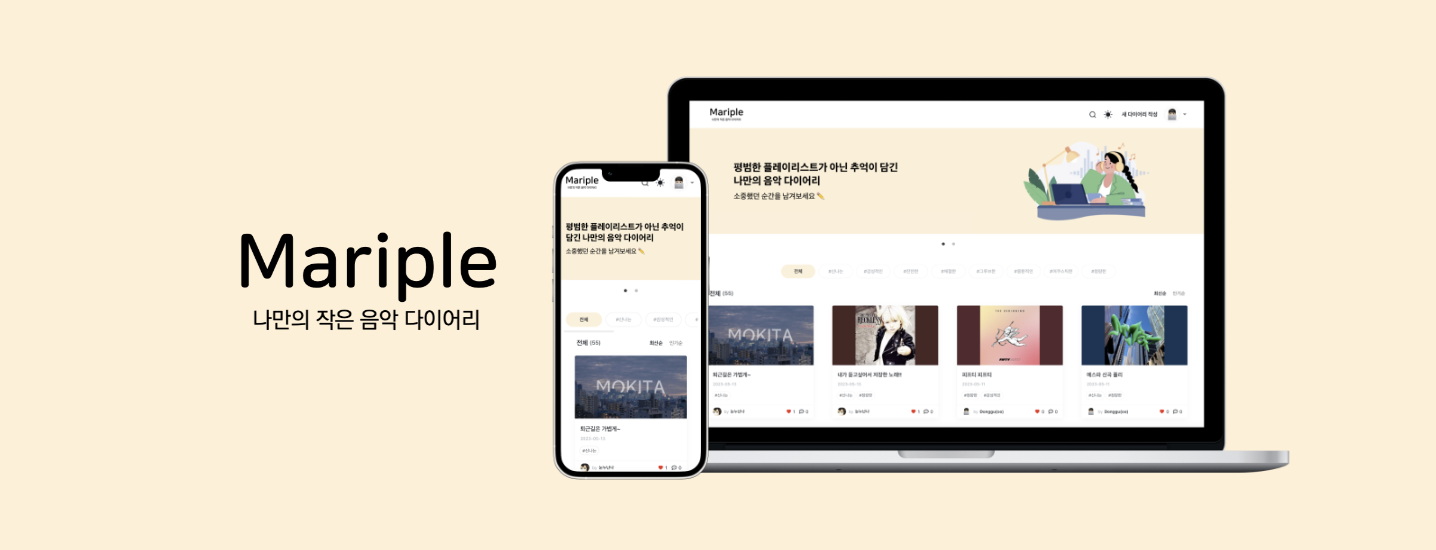
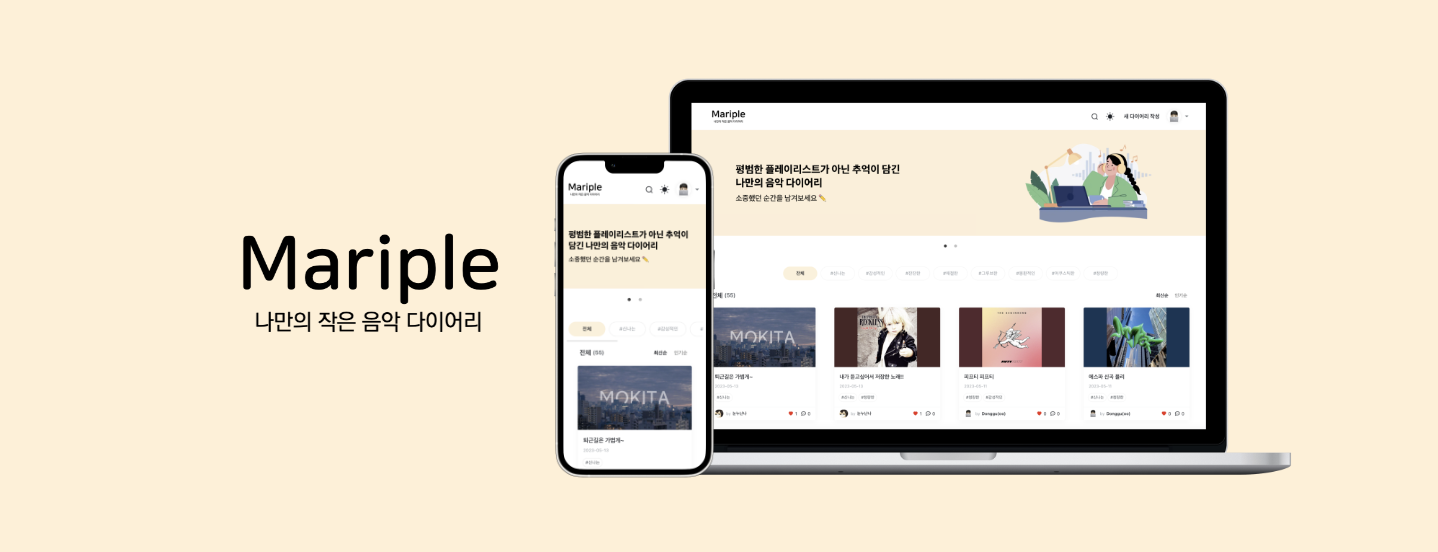
Design : Project 컴포넌트 -> 스택 태그 컬러 변경

Changed region(s): [[0.1532, 0.1236, 0.8579, 0.8964], [0.1838, 0.5564, 0.337, 0.6182], [0.7047, 0.2782, 0.7967, 0.4018]]

diff --git a/src/components/Project.tsx b/src/components/Project.tsx
@@ -15,7 +15,6 @@ import { RiGithubFill } from "react-icons/ri";
 
 const ProjectContainer = styled.div`
   padding: 3.5rem 3rem 3.5rem 3rem;
-  /* padding: 3.5rem 48px 3.5rem 48px; */
   border-radius: 1.3rem;
   border: none;
   background-color: white;
@@ -73,16 +72,20 @@ const SlideArea = styled.div`
   /* border: 1px solid blue; */
   > img {
     margin: auto;
+    margin-top: 0.2rem;
     width: 51rem;
     height: 20rem;
     border-radius: 1.3rem;
     object-fit: cover;
-    /* height: 320px; */
+    transition: 0.2s ease-in-out;
+
+    &:hover {
+      transform: scale(1.01);
+    }
   }
 `;
 
 const SlideTextArea = styled.div`
-  /* border: 1px solid blue; */
   padding: 0 0.5rem 0 0.5rem;
   margin-top: 0.7rem;
   height: 15rem;
@@ -93,7 +96,6 @@ const SlideTitle = styled.div`
   align-items: center;
   font-size: 2rem;
   font-weight: 600;
-  /* border: 1px solid red; */
 
   > a {
     display: flex;
@@ -101,7 +103,6 @@ const SlideTitle = styled.div`
     color: #454545;
 
     > .homepageIcon {
-      /* border: 1px solid red; */
       margin-left: 1rem;
       margin-top: 0.25rem;
       cursor: pointer;
@@ -150,10 +151,59 @@ const SlideTag = styled.ul`
 
   > li {
     font-size: 0.8rem;
-    padding: 0.2rem 0.45rem 0.3rem 0.45rem;
+    padding: 0.2rem 0.45rem 0.2rem 0.45rem;
     color: ${(props) => props.theme.color.mainColor};
     border-radius: 5rem;
     border: 1px solid ${(props) => props.theme.color.mainColor};
+    font-weight: 500;
+
+    &.javaScript {
+      color: white;
+      background-color: #f7df1e;
+      border: 1px solid #f7df1e;
+    }
+
+    &.typeScript {
+      color: white;
+      background-color: #3178c6;
+      border: 1px solid #3178c6;
+    }
+
+    &.react {
+      color: white;
+      background-color: #61dafb;
+      border: 1px solid #61dafb;
+    }
+
+    &.recoil {
+      color: white;
+      background-color: black;
+      border: 1px solid black;
+    }
+
+    &.styledComponents {
+      color: white;
+      background-color: #db7093;
+      border: 1px solid #db7093;
+    }
+
+    &.redux {
+      color: white;
+      background-color: #764abc;
+      border: 1px solid #764abc;
+    }
+
+    &.firebase {
+      color: white;
+      background-color: #ffca28;
+      border: 1px solid #ffca28;
+    }
+
+    &.aws {
+      color: white;
+      background-color: #569a31;
+      border: 1px solid #569a31;
+    }
   }
 `;
 
@@ -225,10 +275,12 @@ function Project() {
               </Link>
             </SlideTitle>
             <SlideTag>
-              <li>TypeScript</li>
-              <li>React</li>
-              <li>Recoil</li>
-              <li>Styled Components</li>
+              <li>개인 프로젝트</li>
+              <li className='typeScript'>TypeScript</li>
+              <li className='react'>React</li>
+              <li className='recoil'>Recoil</li>
+              <li className='styledComponents'>Styled Components</li>
+              <li className='firebase'>Firebase</li>
             </SlideTag>
             <SlideComment>
               <p className='mainText'>
@@ -273,10 +325,12 @@ function Project() {
               </Link>
             </SlideTitle>
             <SlideTag>
-              <li>TypeScript</li>
-              <li>React</li>
-              <li>Redux Toolkit</li>
-              <li>Styled Components</li>
+              <li>팀 프로젝트</li>
+              <li className='typeScript'>TypeScript</li>
+              <li className='react'>React</li>
+              <li className='redux'>Redux Toolkit</li>
+              <li className='styledComponents'>Styled Components</li>
+              <li className='aws'>aws S3</li>
             </SlideTag>
             <SlideComment>
               <p className='mainText'>
@@ -317,10 +371,11 @@ function Project() {
               </Link>
             </SlideTitle>
             <SlideTag>
-              <li>JavaScript</li>
-              <li>React</li>
-              <li>Context API</li>
-              <li>Styled Components</li>
+              <li>개인 프로젝트</li>
+              <li className='javaScript'>JavaScript</li>
+              <li className='react'>React</li>
+              <li className='recoil'>Context API</li>
+              <li className='styledComponents'>Styled Components</li>
             </SlideTag>
             <SlideComment>
               <p className='mainText'>Todo!t은 할 일을 등록하고 관리할 수 있는 서비스입니다.</p>
